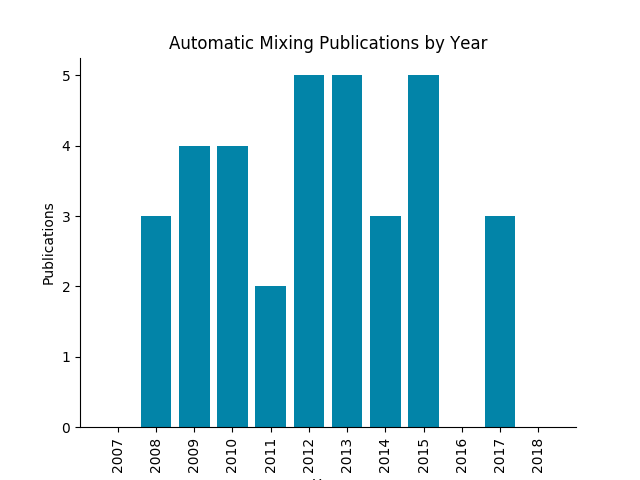
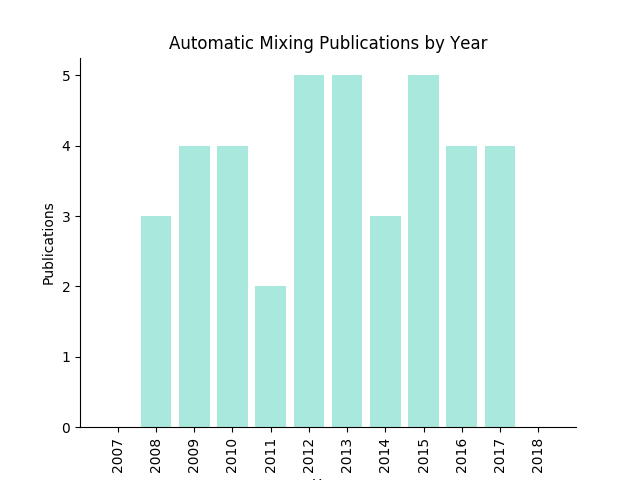
added paper from 2016 and 2017

Changed region(s): [[0.2188, 0.1562, 0.8125, 0.9062]]

diff --git a/mixingpapers.py b/mixingpapers.py
@@ -38,7 +38,7 @@ def calculate_statistics(filename):
     years_num = [int(i) for i in sorted(years.keys())]
     pubs_per_year = [i[1] for i in sorted(years.items())]
     plt.figure(0)
-    plt.bar(years_num, pubs_per_year, align='center', color='#0284A8')
+    plt.bar(years_num, pubs_per_year, align='center', color='#A9E8DC')
     ax = plt.gca()
     ax.spines['top'].set_visible(False)
     ax.spines['right'].set_visible(False)
@@ -52,7 +52,7 @@ def calculate_statistics(filename):
     plt.figure(1)
     labels = ['Grounded Theory', 'Knowledge Engineering', 'Machine Learning']
     sizes = approaches.values()
-    colors = ['#A9E8DC', '#0284A8', '#02BEC4']
+    colors = ['#02547D', '#02BEC4', '#D5E8E4']
     plt.pie(sizes, labels=labels, autopct='%1.1f%%', shadow=True, startangle=90, colors=colors)
     plt.axis('equal')
     plt.savefig('figs/approaches_breakdown.png', transparent=True)
@@ -62,7 +62,7 @@ def calculate_statistics(filename):
     labels = categories.keys()
     sizes = categories.values()
     #explode = (0, 0.1, 0, 0)  # only "explode" the 2nd slice (i.e. 'Hogs')
-    colors = ['#02547D', '#0284A8', '#02BEC4', '#A9E8DC', '#D5E8E4', '#3FE8C8']
+    colors = ['#02547D', '#0284A8', '#02BEC4', '#3FE8C8', '#A9E8DC', '#D5E8E4']
     plt.pie(sizes, labels=labels, autopct='%1.1f%%', shadow=True, startangle=90, colors=colors)
     plt.axis('equal')
     plt.savefig('figs/categories_breakdown.png',  transparent=True)

diff --git a/README.md b/README.md
@@ -14,6 +14,7 @@ Systems that incorporate more than one procees are categorized as `integrated`.
 ## Level
 |Year|Title|Authors|Approach|Resources|
 |---|---|---|---|---|
+|2016|[An evolutionary computation approach to intelligent music production, informed by experimentally gathered domain knowledge](http://usir.salford.ac.uk/44278/1/Wilson.pdf)|A. Wilson and B. Fazenda|KE|No|
 |2015|[Comparison of loudness features for automatic level adjustment in mixing](http://www.aes.org/e-lib/browse.cfm?elib=17928)|G. Wichern et al.|KE|No|
 |2014|[The mathematics of mixing](http://www.aes.org/tmpFiles/elib/20171227/17081.pdf)|M. J. Terrell, A. Simpson, and M. Sandler|GT|No|
 |2012|[Implementation and evaluation of autonomous multi-track fader control](http://citeseerx.ist.psu.edu/viewdoc/download?doi=10.1.1.725.3873&rep=rep1&type=pdf)|S. Mansbridge, S. Finn, and J. D. Reiss|GT|No|
@@ -42,6 +43,7 @@ Systems that incorporate more than one procees are categorized as `integrated`.
 ## Compression
 |Year|Title|Authors|Approach|Resources|
 |---|---|---|---|---|
+|2016|[Deep neural networks for dynamic range compression in mastering applications](http://www.aes.org/e-lib/browse.cfm?elib=18237)|S. I. Mimilakis et al.|ML|No|
 |2015|[Adaptive audio reproduction using personalized compression](https://www.eecs.qmul.ac.uk/~josh/documents/2015/Mason%20et%20al%20-%20AES57%20-%202015.pdf)|A. Mason et al.|GT|No|
 |2015|[Intelligent multitrack dynamic range compression](http://www.aes.org/e-lib/browse.cfm?elib=17821)|Z. Ma et al.|KE|No|
 |2014|[A statistical approach to automated offline dynamic processing in the audio mastering process](http://www.dafx14.fau.de/papers/dafx14_marcel_hilsamer_a_statistical_approach_to.pdf)|M. Hilsamer and S. Herzog|GT|No|
@@ -52,11 +54,14 @@ Systems that incorporate more than one procees are categorized as `integrated`.
 |Year|Title|Authors|Approach|Resources|
 |---|---|---|---|---|
 |2017|[Intelligent multitrack reverberation based on hinge-loss markov random field](http://www.aes.org/e-lib/browse.cfm?elib=18766)|A. L. Benito and J. D. Reiss|ML|[Yes](https://code.soundsoftware.ac.uk/projects/multitrackreverb)|
+|2017|[A machine learning approach to application of intelligent artificial reverberation](http://www.aes.org/e-lib/browse.cfm?elib=18543)|E. T. Chourdakis and J. D. Reiss|ML|[Yes](https://code.soundsoftware.ac.uk/projects/chourdakisreiss2016)|
+|2016|[Automatic control of a digital reverberation effect using hybrid models](http://www.aes.org/e-lib/browse.cfm?elib=18090)|E. T. Chourdakis and J. D. Reiss|ML|No|
 ## Integrated
 |Year|Title|Authors|Approach|Resources|
 |---|---|---|---|---|
 |2017|[Towards an automated multitrack mixing tool using answer set programming](http://smc2017.aalto.fi/media/materials/proceedings/SMC17_p422.pdf)|F. Everardo|KE|No|
 |2017|[Analysis and prediction of the audio feature space when mixing raw recordings into individual stems](http://www.aes.org/e-lib/browse.cfm?elib=19245)|M. A. Martínez Ramírez and J. D. Reiss|ML|[Yes](https://github.com/mchijmma/audioFeatures-stemMixing)|
+|2016|[New sonorities for jazz recordings: Separation and mixing using deep neural networks](http://c4dm.eecs.qmul.ac.uk/events/wimp2/Mimilakis.pdf)|S. I. Mimilakis et al.|ML|[Yes](https://github.com/Js-Mim/aes_wimp)|
 |2015|[New sonorities for early jazz recordings using sound source separation and automatic mixing tools](http://ismir2015.uma.es/articles/190_Paper.pdf)|D. Matz, E. Cano, and J. Abeßer|GT|No|
 |2013|[A knowledge-engineered autonomous mixing system](http://www.aes.org/e-lib/browse.cfm?elib=17011)|B. De Man and J. D. Reiss|KE|No|
 |2013|[Instrument identification informed multi-track mixing](http://citeseerx.ist.psu.edu/viewdoc/download?doi=10.1.1.658.1536&rep=rep1&type=pdf)|J. Scott and Y. E. Kim|KE|No|
